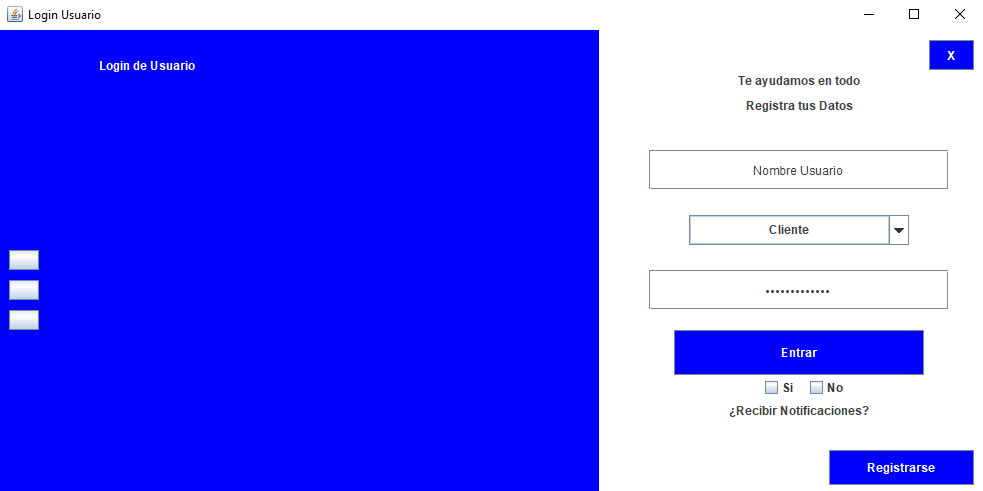
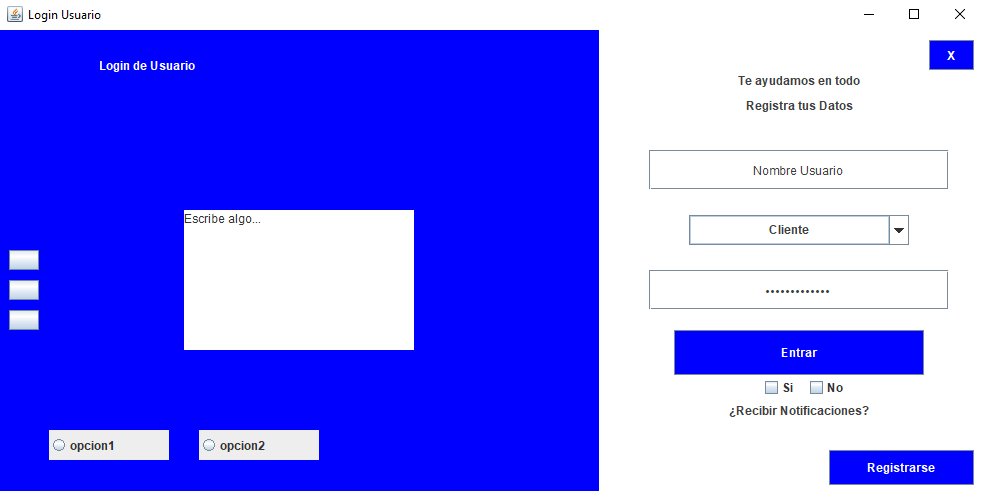
Adicion objetos graficos textArea y JButton

diff --git a/Clase2/src/app/login/LoginTemplate.java b/Clase2/src/app/login/LoginTemplate.java
@@ -3,6 +3,8 @@ package app.login;
 import java.awt.Color;
 import javax.swing.JPanel;
 import javax.swing.JPasswordField;
+// import javax.swing.JRadioButton;
+// import javax.swing.JTextArea;
 import javax.swing.JTextField;
 import javax.swing.SwingConstants;
 import javax.swing.ButtonGroup;
@@ -22,6 +24,8 @@ public class LoginTemplate extends JFrame {
     private JButton bEntrar, bCerrar, bRegistrarse, bOpcion1, bOpcion2, bOpcion3;
     private JCheckBox checkSi, checkNo;
     private ButtonGroup grupo;
+    // private JRadioButton rbOpcion1, rbOpcion2;
+    // private JTextArea taSugerencias;
 
     public LoginTemplate() {
         super("Login Usuario");
@@ -145,6 +149,18 @@ public class LoginTemplate extends JFrame {
         grupo = new ButtonGroup();
         grupo.add(checkSi);
         grupo.add(checkNo);
+
+        // rbOpcion1 = new JRadioButton("opcion1");
+        // rbOpcion1.setBounds(50, 400, 120, 30);
+        // pIzquierda.add(rbOpcion1);
+
+        // rbOpcion2 = new JRadioButton("opcion2");
+        // rbOpcion2.setBounds(200, 400, 120, 30);
+        // pIzquierda.add(rbOpcion2);
+
+        // taSugerencias = new JTextArea("Escribe algo...");
+        // taSugerencias.setBounds(185, 180, 230, 140);
+        // pIzquierda.add(taSugerencias);
 
         setLayout(null);
         setDefaultCloseOperation(EXIT_ON_CLOSE);

diff --git a/README.md b/README.md
@@ -576,8 +576,8 @@ rbOpcion2.setBounds(200, 400, 120, 30);
 ### Adición
 
 ```
-panel.add(rbOpcion1);
-panel.add(rbOpcion2);
+pIzquierda.add(rbOpcion1);
+pIzquierda.add(rbOpcion2);
 ```
 
 ## JTextArea
@@ -601,19 +601,28 @@ taSugerencias= new JTextArea("Escribe algo...");
 ### Configuración
 
 ```
-taSugerencias.setBounds(10, 10, 230, 140);
+taSugerencias.setBounds(185, 180, 230, 140);
 ```
 
 ### Adición
 
 ```
-panel.add(taSugerencias);
+pIzquierda.add(taSugerencias);
 ```
+
+Si añadimos estos componentes nuestra interfaz se vería algo así:
+
+<div align="center">
+  <img  src="./resources/interfaz5.png">
+  <p>Interfaz login de usuario, resultado Final</p>
+</div>
+
+Sin embargo como se dijo anteriormente estos dos objetos gráficos no harán parte de nuestra interfaz asi que por ahora se comentaran estas partes en nuestro código.
 
 # Resultado
 
 <div align="center">
-  <img  src="./resources/interfaz5.png">
+  <img  src="./resources/interfaz6.png">
   <p>Interfaz login de usuario, resultado Final</p>
 </div>
 
